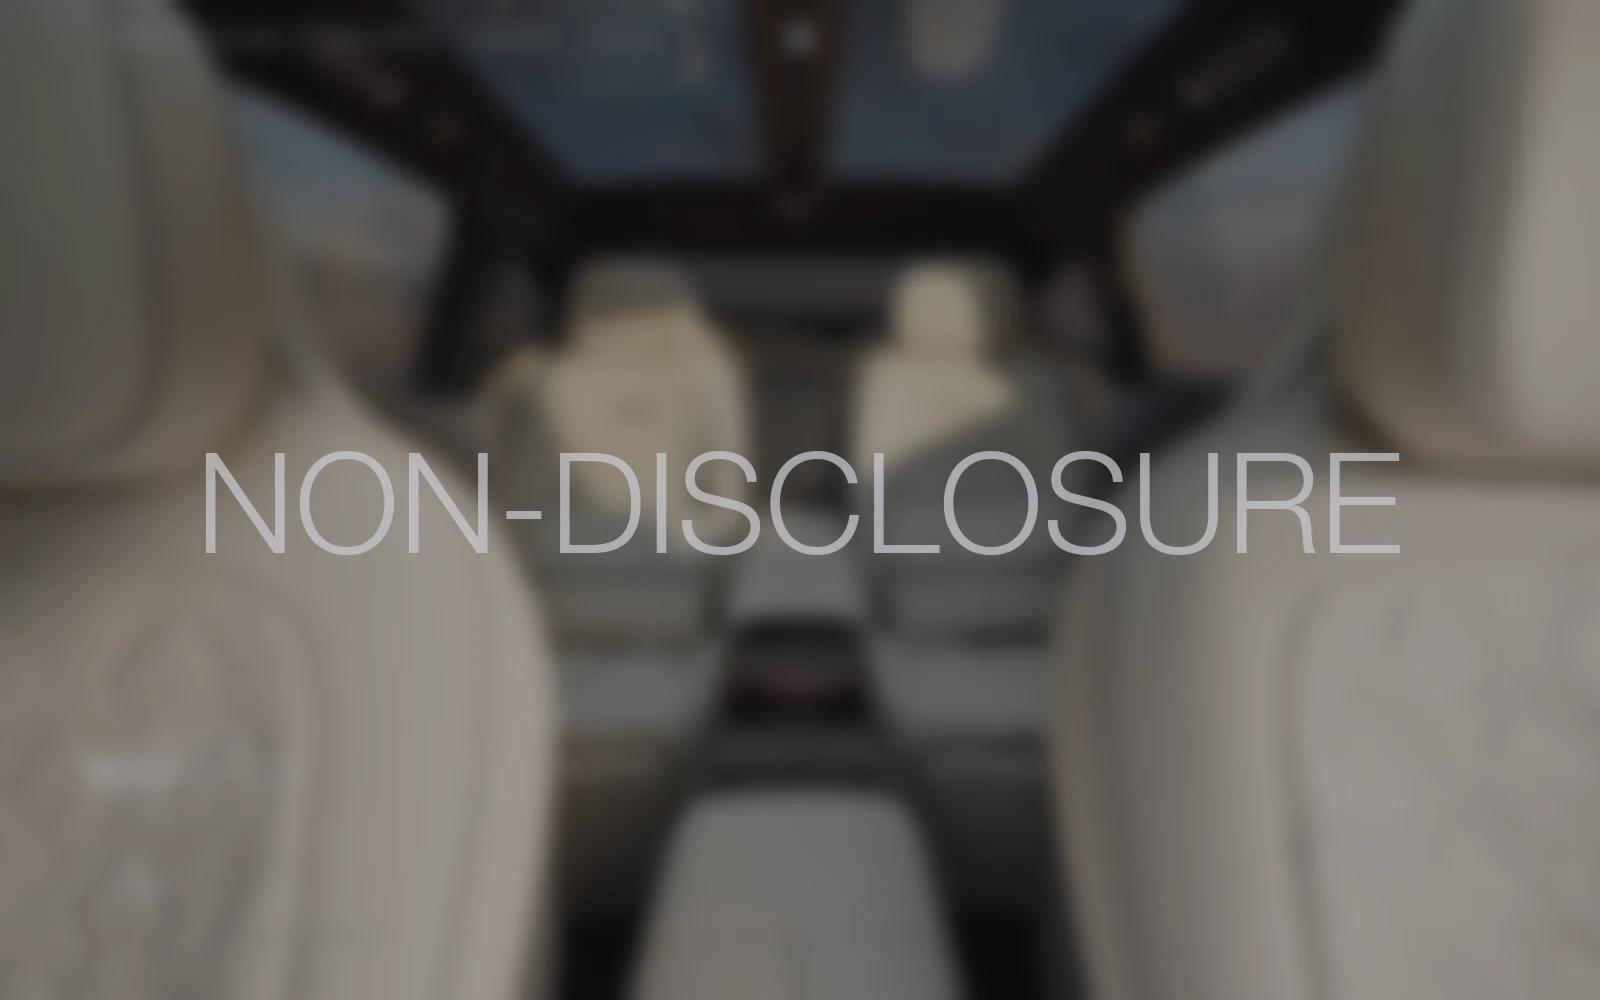
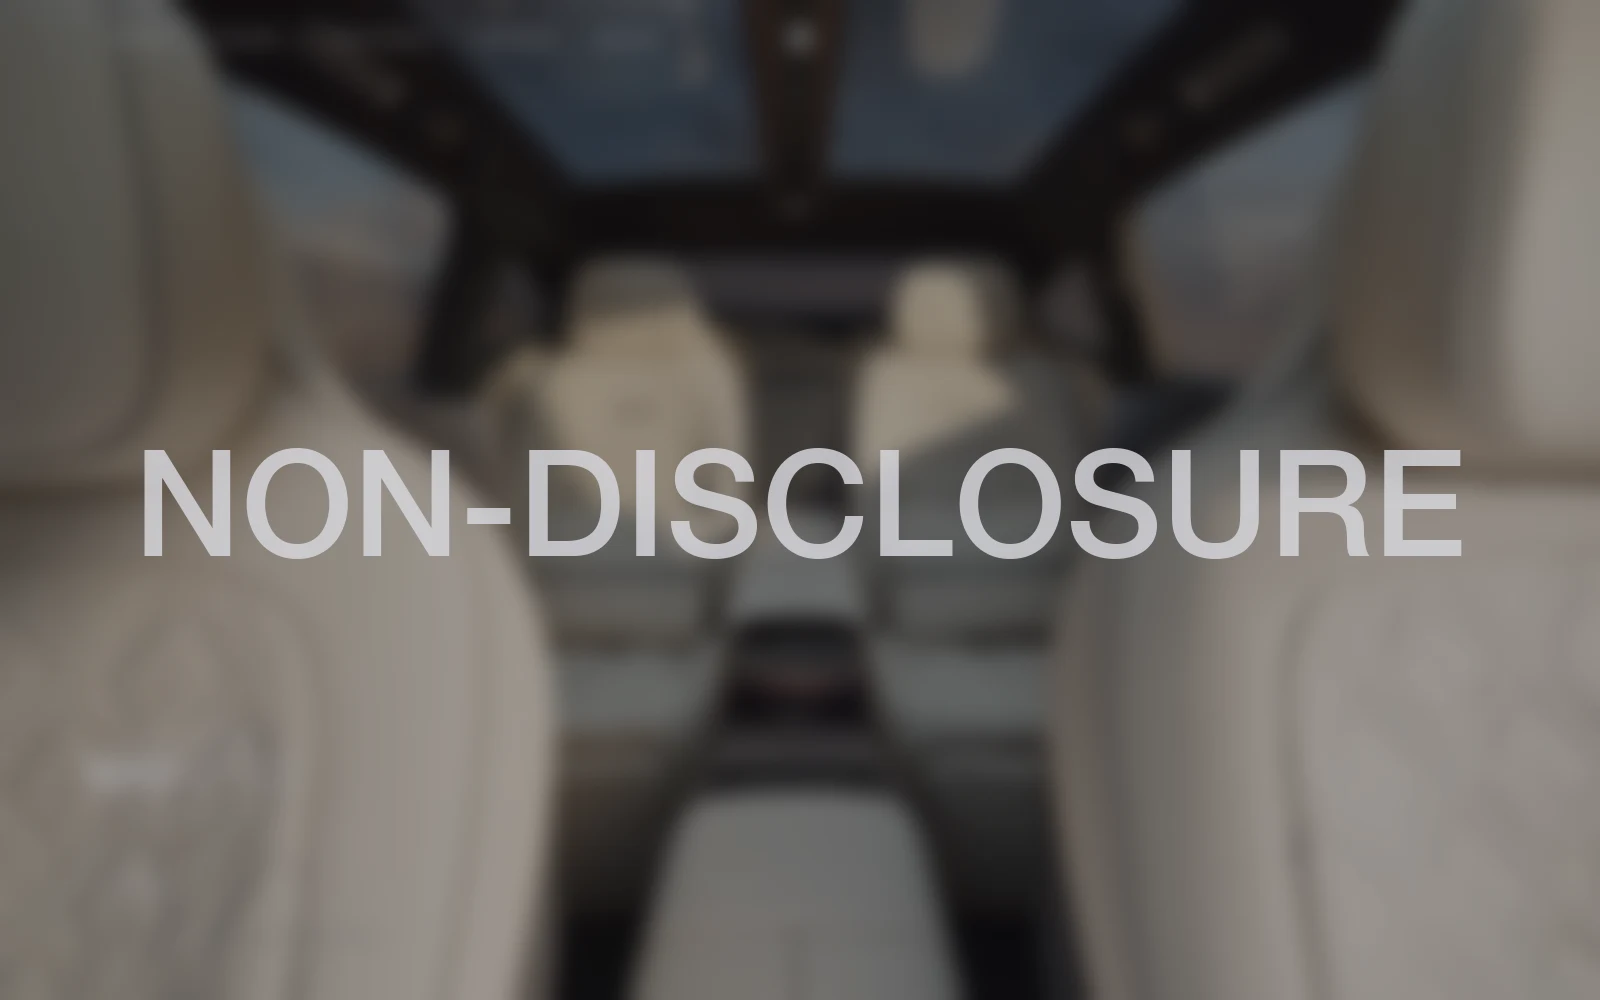
Vegan Kitchen cover: original photo kept, only the screen replaced (rounded-corner fit, island and fingers in front, grey background widened); NIO: bigger, rounder laptops and bolder NON-DISCLOSURE

Changed region(s): [[0.0625, 0.434, 0.9375, 0.558]]

diff --git a/app/work/nio/page.tsx b/app/work/nio/page.tsx
@@ -24,10 +24,10 @@ const ACCENT = "#8ac0ff"; // CarFolio highlight blue
 function Laptop({ src, alt, className }: { src: string; alt: string; className?: string }) {
   return (
     <div className={className}>
-      <div className="relative rounded-[2.2%/3.5%] border border-white/[0.12] bg-[#0e0e10] p-[0.9%] shadow-[0_40px_80px_-30px_rgba(0,0,0,0.9)]">
+      <div className="relative rounded-[4%/6.4%] border border-white/[0.12] bg-[#0e0e10] p-[0.9%] shadow-[0_40px_80px_-30px_rgba(0,0,0,0.9)]">
         <span aria-hidden className="absolute left-1/2 top-0 h-[1.6%] w-[7%] -translate-x-1/2 rounded-b-[5px] bg-[#0e0e10]" />
         {/* eslint-disable-next-line @next/next/no-img-element */}
-        <img src={src} alt={alt} width={1600} height={1000} className="block h-auto w-full rounded-[0.8%]" />
+        <img src={src} alt={alt} width={1600} height={1000} className="block h-auto w-full rounded-[3.2%/5.1%]" />
       </div>
       <div className="relative -mx-[5%] h-[6px] rounded-b-[10px] bg-gradient-to-b from-[#9a9aa3] to-[#55555c] md:h-[9px]">
         <span aria-hidden className="absolute left-1/2 top-0 h-[40%] w-[16%] -translate-x-1/2 rounded-b-[8px] bg-[#55555e]" />
@@ -83,11 +83,11 @@ export default function NioPage() {
             <Reveal className="relative mt-20 md:mt-24">
               {/* soft violet glow behind the laptops; they fade out at the bottom like the Vegan Kitchen hero */}
               <div aria-hidden className="pointer-events-none absolute inset-x-0 top-[8%] mx-auto h-[70%] max-w-[1100px] rounded-full bg-[#5c5866]/25 blur-[120px]" />
-              <div className="relative -mx-gutter overflow-hidden [mask-image:linear-gradient(180deg,#000_48%,transparent_96%)] md:mx-0">
-                <div className="relative mx-auto flex max-w-[1480px] items-start justify-center">
-                  <Laptop src={`${N}/nda-2.webp`} alt="NIO Power page, blurred under NDA" className="relative z-10 mt-[8%] w-[44%] -mr-[10%]" />
-                  <Laptop src={`${N}/nda-1.webp`} alt="NIO ET9 interior page, blurred under NDA" className="relative z-20 w-[64%]" />
-                  <Laptop src={`${N}/nda-3.webp`} alt="NIO Life page, blurred under NDA" className="relative z-10 mt-[8%] w-[44%] -ml-[10%]" />
+              <div className="relative -mx-gutter overflow-hidden [mask-image:linear-gradient(180deg,#000_48%,transparent_96%)] md:-mx-gutter-lg">
+                <div className="relative mx-auto flex max-w-[1600px] items-start justify-center">
+                  <Laptop src={`${N}/nda-2.webp`} alt="NIO Power page, blurred under NDA" className="relative z-10 mt-[8%] w-[47%] -mr-[12%]" />
+                  <Laptop src={`${N}/nda-1.webp`} alt="NIO ET9 interior page, blurred under NDA" className="relative z-20 w-[70%]" />
+                  <Laptop src={`${N}/nda-3.webp`} alt="NIO Life page, blurred under NDA" className="relative z-10 mt-[8%] w-[47%] -ml-[12%]" />
                 </div>
               </div>
             </Reveal>

diff --git a/lib/content.ts b/lib/content.ts
@@ -222,7 +222,7 @@ export const playgroundProjects = [
     blurbZh: "为一家素食餐厅设计的点餐 App，并配有供店员管理菜单与菜品供应状态的后台，经过两轮可用性测试迭代优化。",
     tags: ["Group Project", "Mobile App", "Usability Testing"],
     // Homepage card: tools/vegan_card_cover.py (licensed hand-and-phone photo, orange background, app home screen).
-    image: "/images/vegan/card-cover-v4.jpg",
+    image: "/images/vegan/card-cover-v5.jpg",
     href: "/playground/vegan-kitchen",
     video: undefined as string | undefined,
     poster: undefined as string | undefined,
